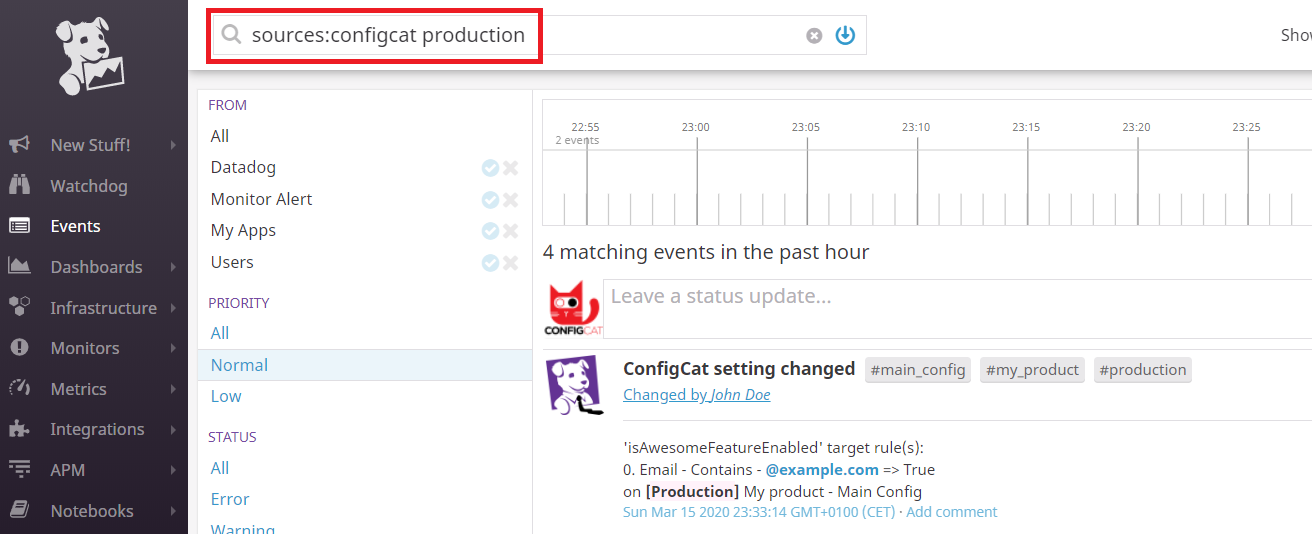
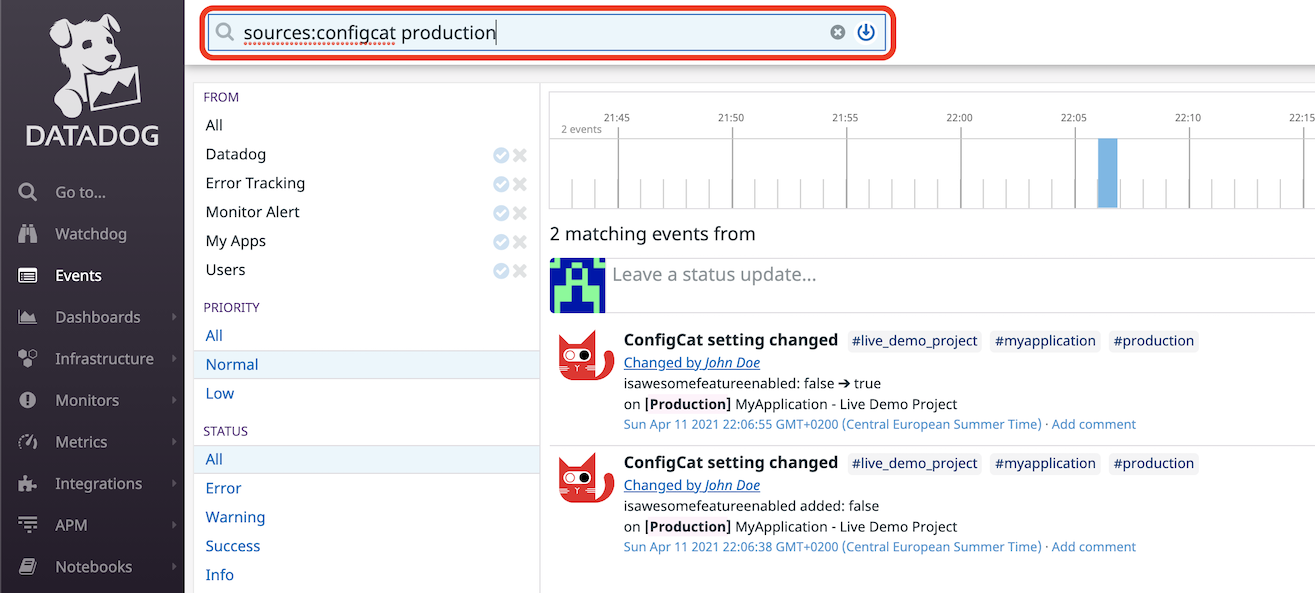
add datadog site step + update img assets

diff --git a/website/docs/integrations/datadog.md b/website/docs/integrations/datadog.md
@@ -1,31 +1,32 @@
 ---
 id: datadog
-title: DataDog
+title: Datadog
 ---
 
 ## Overview
 
-Ensures that every setting change in ConfigCat is sent to DataDog as an Event.
+Ensures that every setting change in ConfigCat is sent to Datadog as an Event.
 
 ![datadog_event](/assets/datadog_event.png)
 
 ## Installation
 
-1. Have a <a href="https://www.datadoghq.com/" target="_blank">DataDog subscription.</a>
-2. Get a <a href="https://docs.datadoghq.com/account_management/api-app-keys/#api-keys" target="_blank">DataDog API Key.</a>
+1. Have a <a href="https://www.datadoghq.com/" target="_blank">Datadog subscription.</a>
+2. Get a <a href="https://docs.datadoghq.com/account_management/api-app-keys/#api-keys" target="_blank">Datadog API Key.</a>
 ![datadog_event](/assets/datadog_apikey.png)
-1. Open the <a href="https://app.configcat.com/product/integrations" target="_blank">integrations tab</a> on ConfigCat Dashboard.
-2. Click on DataDog's CONNECT button and set your DataDog API key.
-3. You're all set. Go ahead and make some changes on your feature flags then check your Events in DataDog.
+3. Open the <a href="https://app.configcat.com/product/integrations" target="_blank">integrations tab</a> on ConfigCat Dashboard.
+4. Click on Datadog's CONNECT button and set your Datadog API key.
+5. OPTIONAL - Set the proper site of your Datadog account. [More about Datadog site](https://docs.datadoghq.com/getting_started/site/).
+6. You're all set. Go ahead and make some changes on your feature flags then check your Events in Datadog.
 
 ## Un-installation
 1. Open the <a href="https://app.configcat.com/product/integrations" target="_blank">integrations tab</a> on ConfigCat Dashboard.
-2. Click on DataDog's DISCONNECT button.
+2. Click on Datadog's DISCONNECT button.
 
 
 ## Event details
 
-Every event sent to DataDog by ConfigCat has a *source* property of `configcat` and *tagged* with the `product_name`, `config_name` and
+Every event sent to Datadog by ConfigCat has a *source* property of `configcat` and *tagged* with the `product_name`, `config_name` and
  `environment_name` where the change has happened.
 
 ### Searching for Events
@@ -33,4 +34,3 @@ Every event sent to DataDog by ConfigCat has a *source* property of `configcat` 
 For example here is how to search for events that happened in the production environment: ```sources:configcat production```
 
 ![datadog_filtering](/assets/datadog_filtering.png)
-
